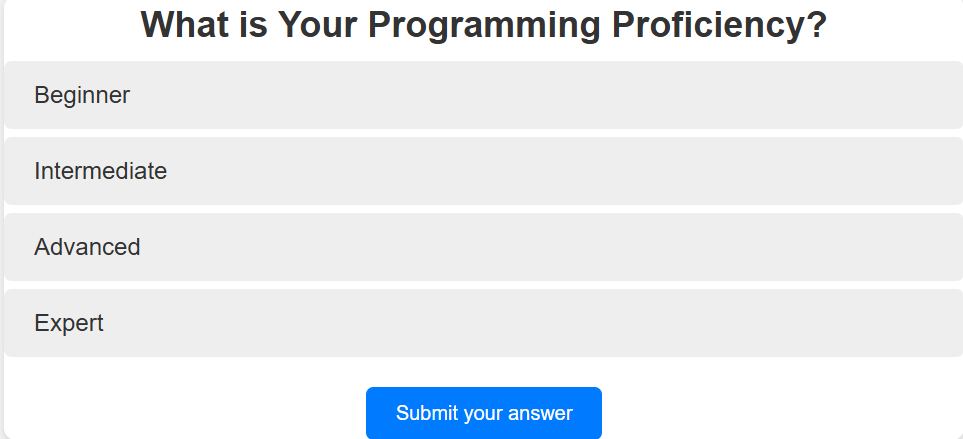
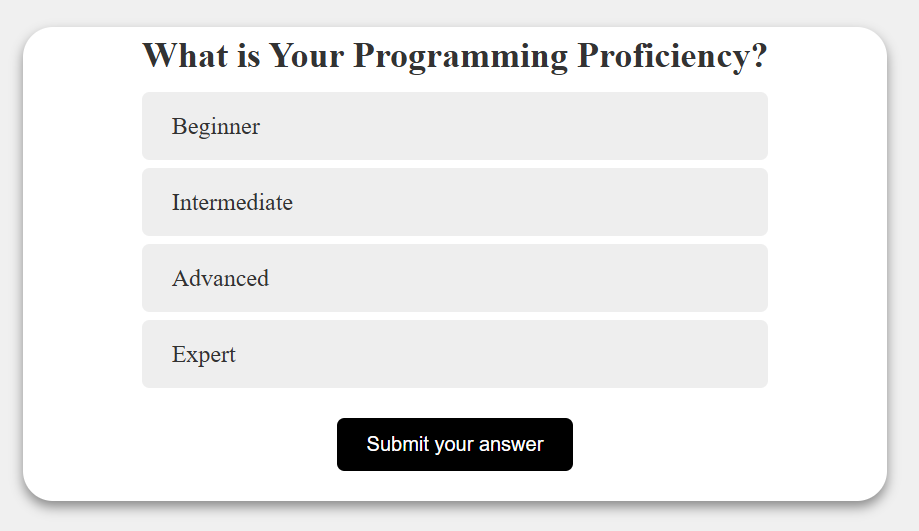
added more to readme :>

diff --git a/LetsBuild/app/templates/app/quiz.html b/LetsBuild/app/templates/app/quiz.html
@@ -44,7 +44,7 @@
                 <ol style="list-style-type: none;">
                 {% if topics and topics|length == 1 %}
                     <input type="hidden" name="quiz_id" value="{{ topics.0.id }}">
-                    <p>Starting: {{ topics.0.name }} ({{ topics.0.questions_count }} questions)</p>
+                    
                 {% else %}
                     <ol style="list-style-type: none;">
                         {% for topic in topics %}

diff --git a/LetsBuild/LetsBuild/static/form.css b/LetsBuild/LetsBuild/static/form.css
@@ -51,7 +51,7 @@
         height: 100%;
 
     }
-    
+    /*LEFT SIDE OF CARD */
     .project-info {
         width: 50%;
         height: 100%;
@@ -70,6 +70,7 @@
         height: 20%;
         width: 100%;
         color: white;
+        padding-bottom: 5%;
     }
 
     .description-box {
@@ -79,6 +80,7 @@
         color: white;
     }
 
+    /*RIGHT SIDE OF CARD*/
     #topic-container {
         background-color: #fff;
         border-radius: 20px;
